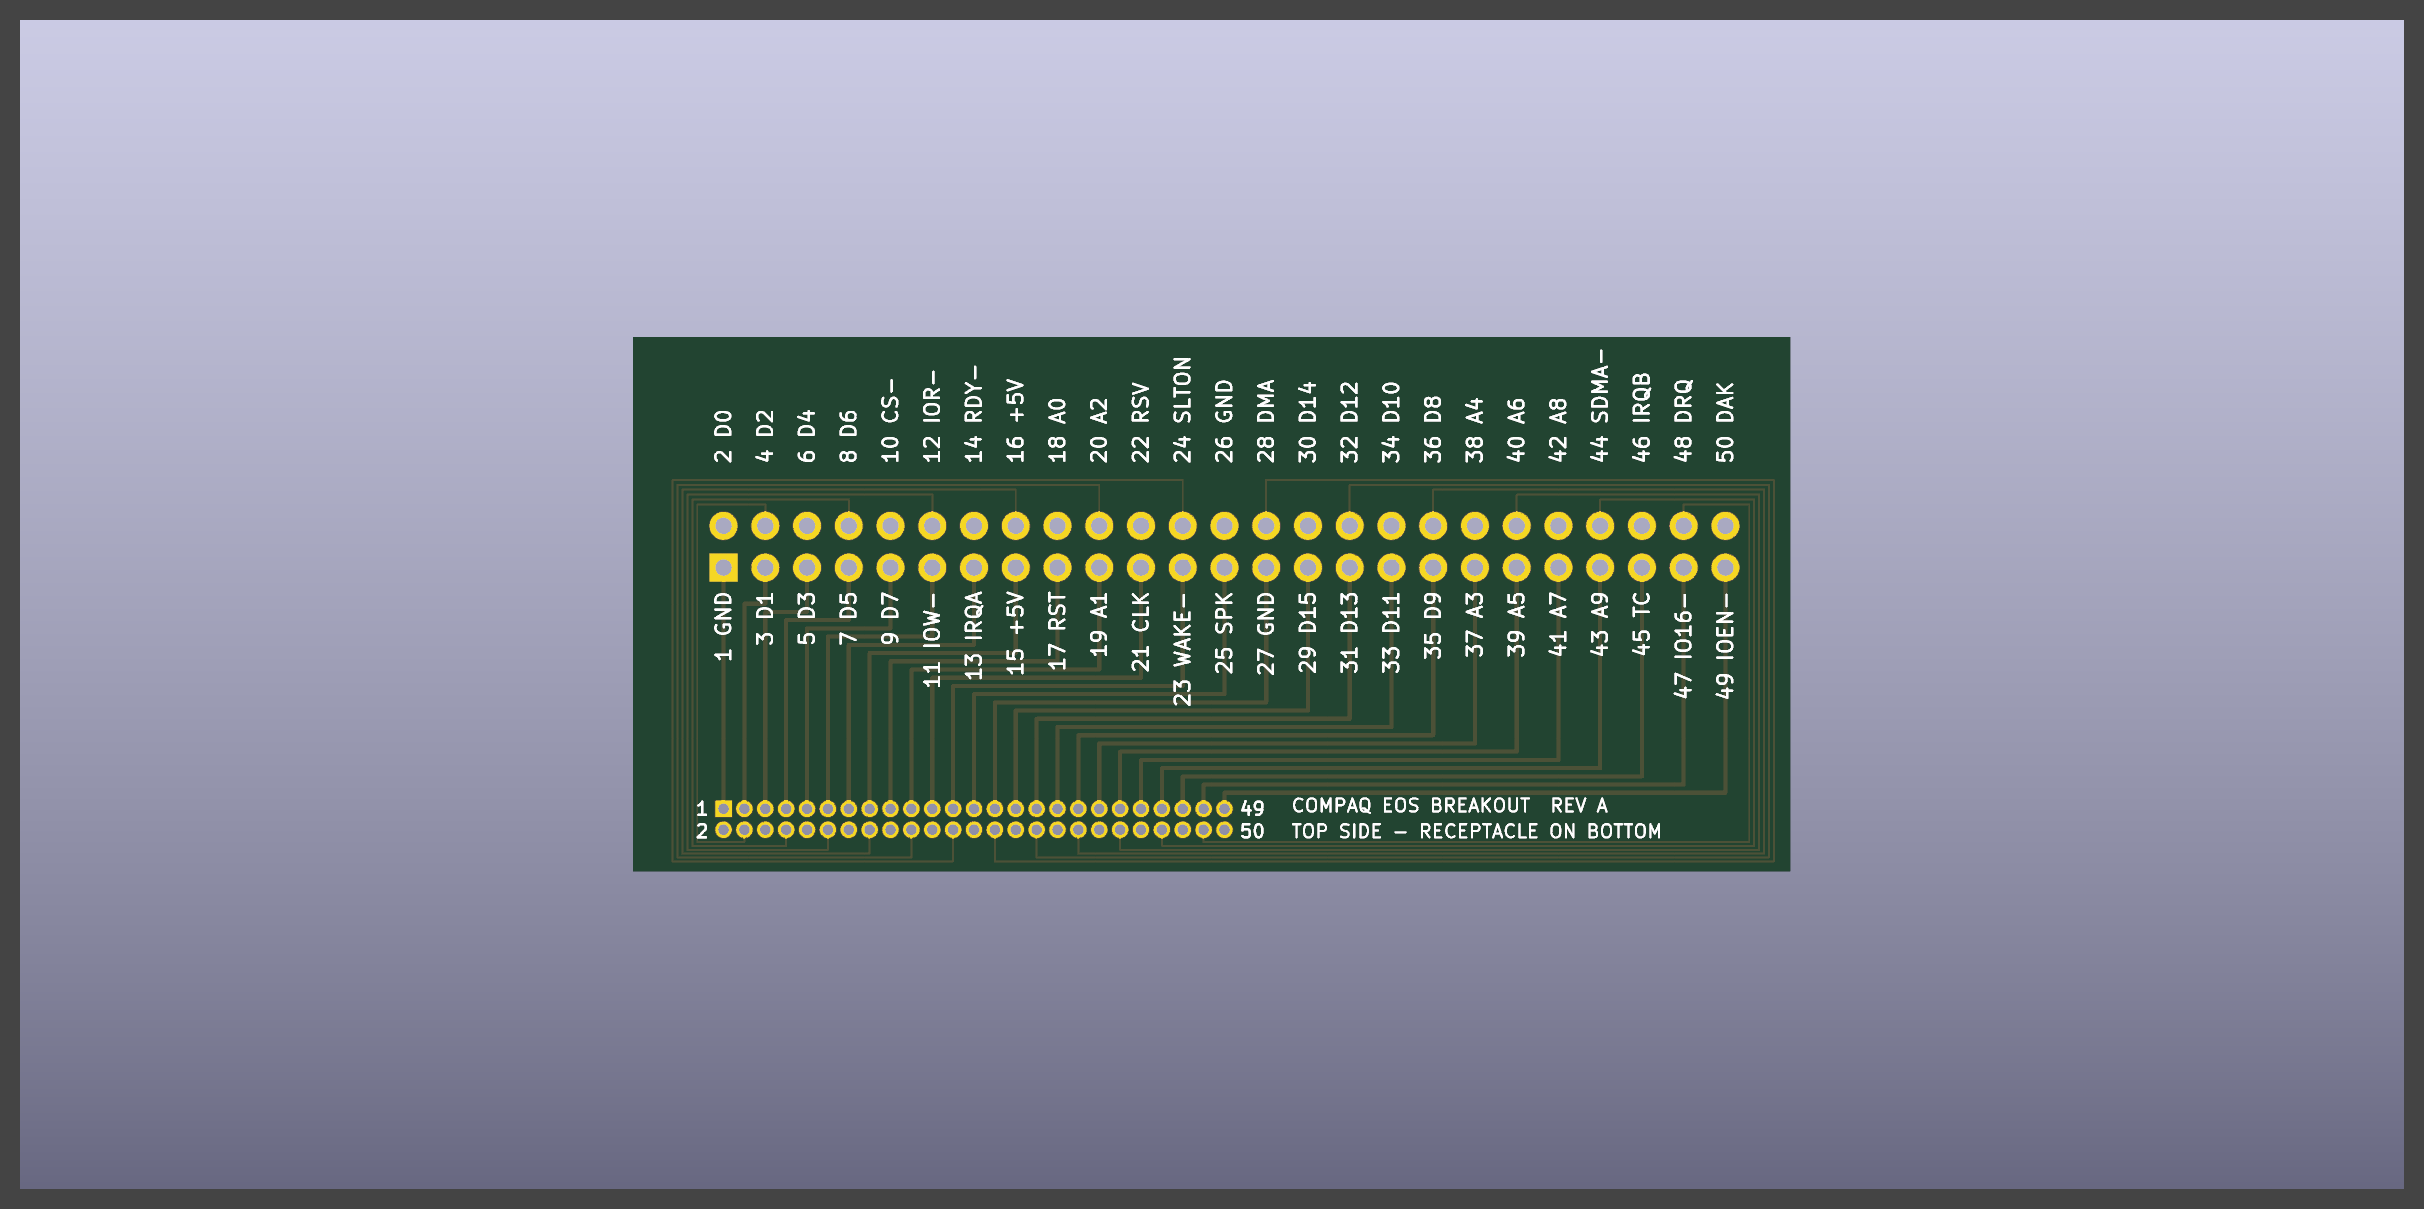
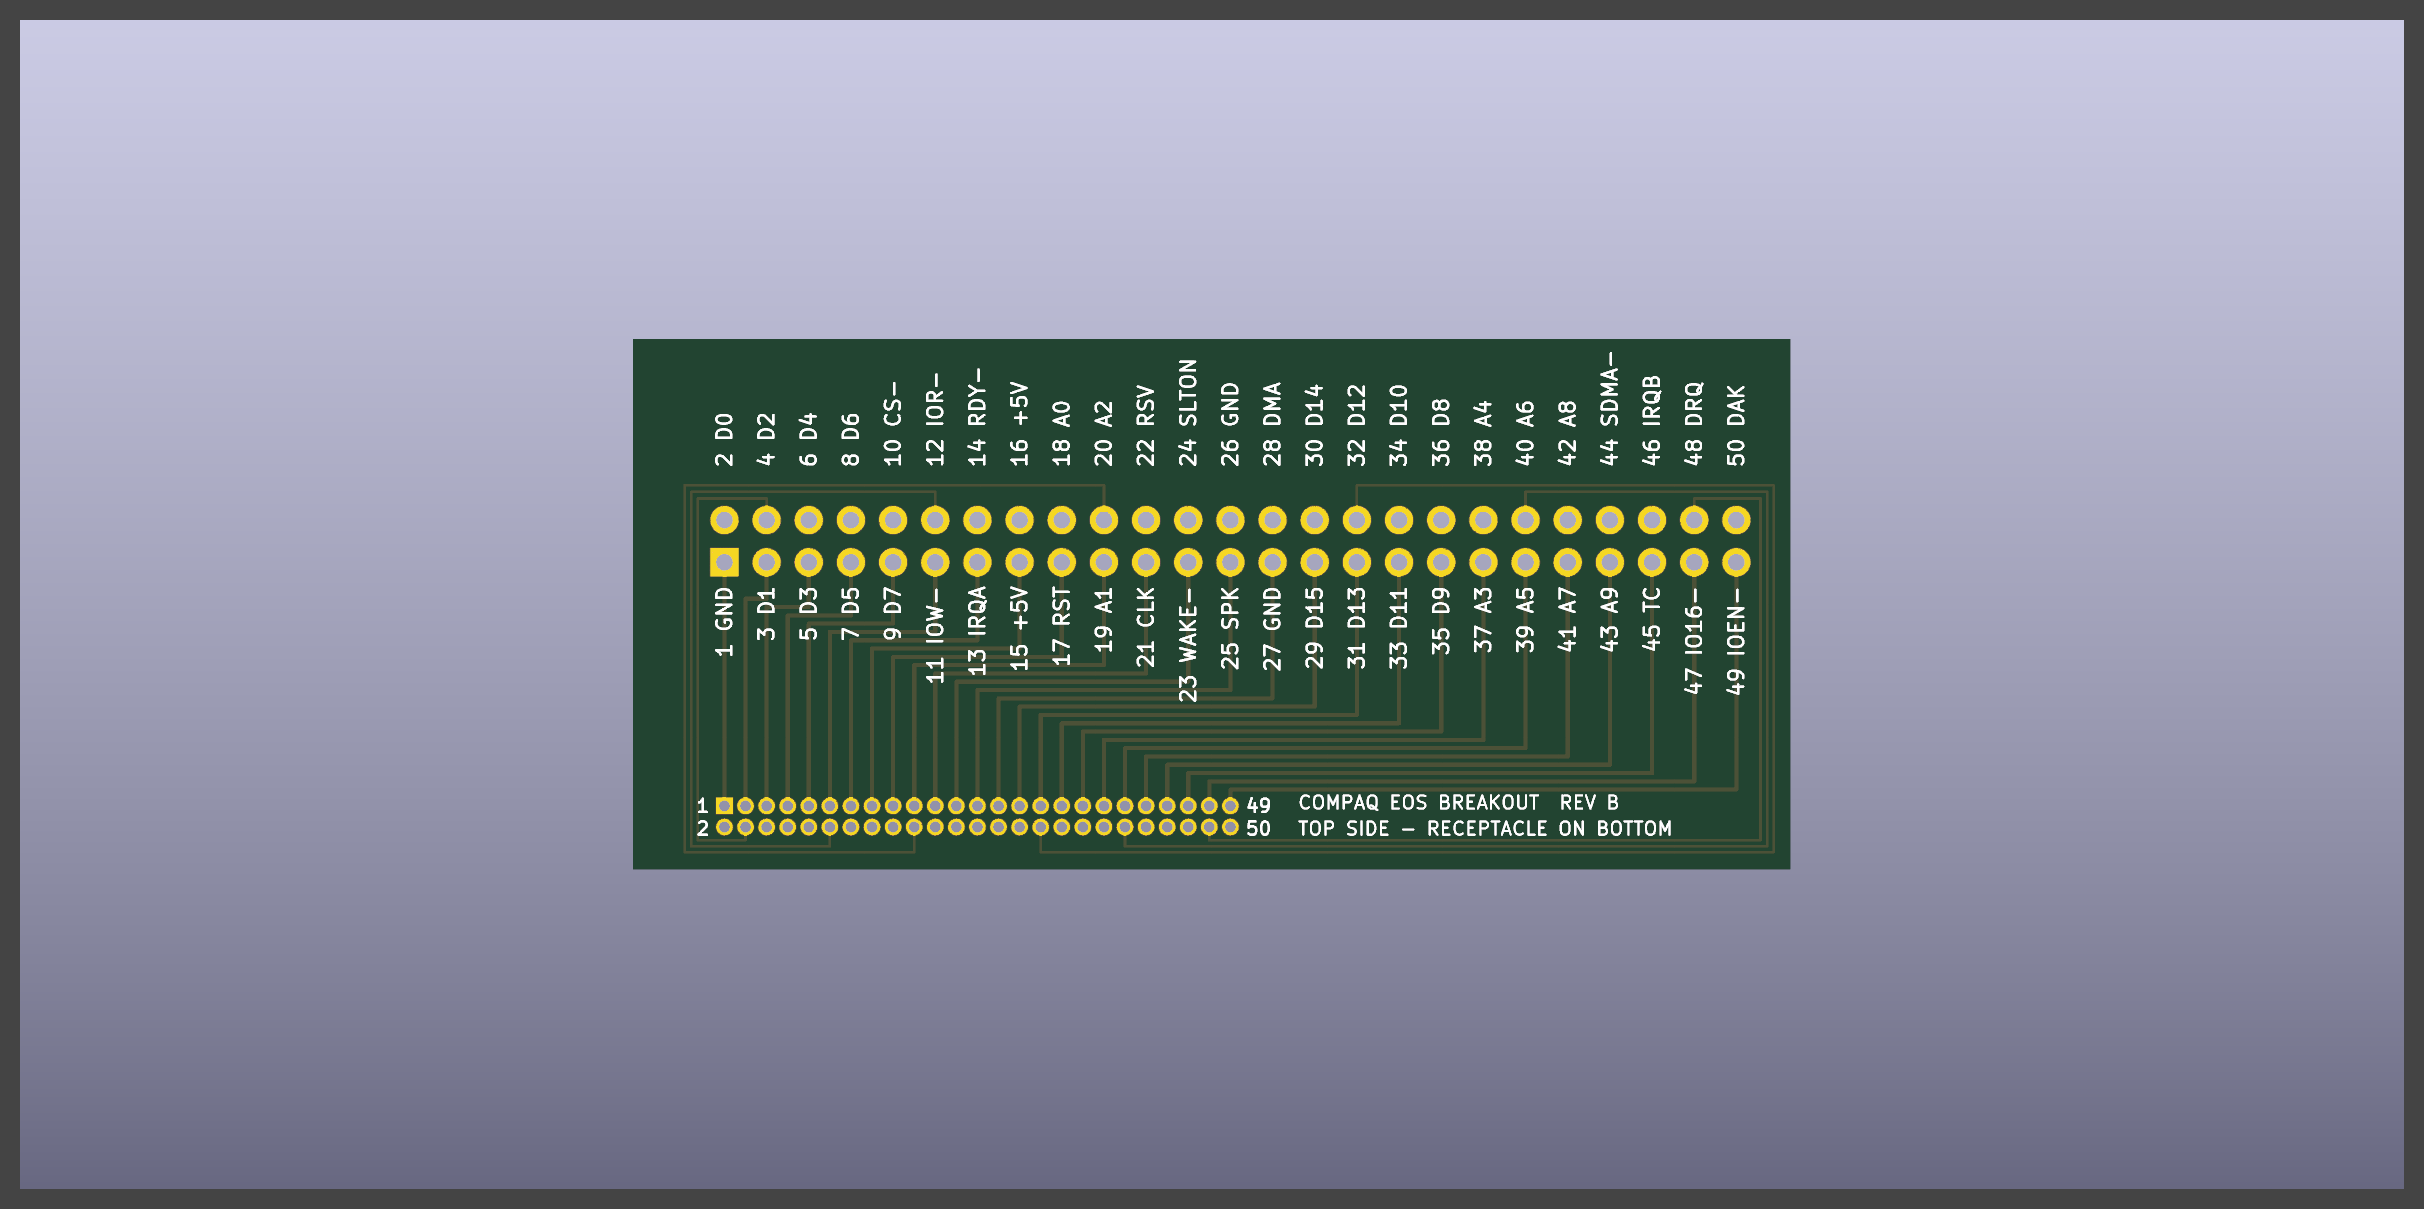
WiFi modem: breakout is a four-layer board, on order from OSH Park

Changed region(s): [[0.2785, 0.2754, 0.7426, 0.7345]]

diff --git a/src/content/projects/compaq-wifimodem/breakout.md b/src/content/projects/compaq-wifimodem/breakout.md
@@ -1,6 +1,6 @@
 ---
 title: "Options Slot Breakout Board"
-description: "A two-layer breakout that carries the original Compaq 50-pin 1.27mm connector and fans it out to a labeled 0.1 inch header"
+description: "A four-layer breakout that carries the original Compaq 50-pin 1.27mm connector and fans it out to a labeled 0.1 inch header"
 date: 2026-11-09
 ---
 
@@ -10,11 +10,11 @@ The slot connector is 1.27mm pitch and keyed. I have exactly one mating connecto
 
 ![The hand-wiring attempt on a 1.27mm proto board](../../../assets/images/compaq-wifimodem/02-prototype-board.jpg)
 
-So it gets its own board. Designed, checked, and ordered from OSH Park. Waiting on it.
+So it gets its own board. Designed, checked, and on order from OSH Park. Waiting on it.
 
 ## What it is
 
-- 70.4 x 32.5mm, two layers, no vias. Three boards on order from OSH Park.
+- 69.7 x 31.9mm, four layers, no vias. Three boards on order.
 - Original Compaq receptacle on the bottom edge. 2x25 through-hole on a 1.27mm square grid, nearest row 2.55mm from the edge, body on the bottom side. Same as it sat on the modem.
 - 2x25 0.1" header along the top. Every pin labeled with its number and signal name. Header pin N is slot pin N.
 - Stands upright on the slot header, like the modem did.
@@ -27,33 +27,38 @@ There are little fan-out adapters that take a 1.27mm socket to 0.1" pins. Right 
 
 This was more interesting than I expected.
 
-Two rows of pads, 1.27mm apart, 1.0mm pads. That leaves 0.27mm between pads. A trace can't legally pass through that. Not at any width a cheap fab will make with a proper annular ring around the hole.
+Two rows of pads, 1.27mm apart, 1.0mm pads. That leaves 0.27mm between pads. A trace can't legally pass through that. Not at any width a fab will make with a proper annular ring around the hole.
 
 The odd row is fine. It faces the rest of the board, so its traces just leave.
 
 The even row is boxed in. Odd row on one side, board edge 2.55mm away on the other. The only ways out are the two ends of the connector.
 
-![Both copper layers. Odd pins in red fan straight out. Even pins take the long way around.](../../../assets/images/compaq-wifimodem/08-breakout-copper.png)
+![All four copper layers overlaid. Odd pins fan straight out on the top layer. Even pins take the long way around.](../../../assets/images/compaq-wifimodem/08-breakout-copper.png)
 
 So the even pins leave downward, into the 2mm strip between the pads and the board edge. Run sideways along that strip past the end of the connector. Up the side of the board. Over the top of the header. Then drop onto the header pins from above.
 
-Half go left, half go right, split across both layers. Seven traces is the most that fit in the strip on one layer. Within each group the pin nearest the exit takes the lane nearest the pads, which keeps everything nested and nothing crosses. No vias anywhere.
+Half go left, half go right. Within each group the pin nearest the exit takes the lane nearest the pads, which keeps everything nested and nothing crosses. No vias anywhere. The connector pins themselves tie the layers together.
 
-The cost is that those even-pin traces are thin. 0.12mm with 0.115mm gaps, because that is what fits. And some are long. Pin 28 goes 106mm to cover about 25mm in a straight line. Fine for ISA-speed signals. Not fine for power, so power and ground come off the odd pins (15, 1, 27), which get 0.25mm traces.
+## Why four layers
+
+The strip is the bottleneck. Twenty-five traces have to squeeze through 2mm of board, and how many fit depends on how fine the fab can etch.
+
+Four layers solves it by brute force. Same strip, four layers of it. At most four traces per layer on each side, so there is room for 0.16mm traces with 0.20mm gaps and more than 15 mil to the board edge. Comfortably inside OSH Park's four-layer rules. Worth it for something that carries the only connector I have.
+
+Some of the even-pin traces are long. Pin 28 goes 103mm to cover about 25mm in a straight line. Fine for ISA-speed signals. Power and ground come off the odd pins (15, 1, 27), which get 0.25mm traces.
 
 ## Checks
 
-- KiCad design rule check: zero violations, zero unconnected nets.
+- KiCad design rule check against OSH Park's four-layer limits: zero violations, zero unconnected nets.
 - Read the board file back and confirmed every slot pin shares a net with the same-numbered header pin. 50 separate nets.
 - Printed the copper at 1:1 and laid it over the modem's empty connector holes. Every hole lines up, pin 1 on pin 1. That is the check against a mirrored board, which is the one mistake that would be fatal with a single connector.
 
 ## Things I am watching
 
-- **Fab limits.** The even-pin traces are 0.12mm with 0.115mm gaps. That is finer than OSH Park lists for two-layer boards (6 mil trace and space), and that is the version I ordered. So every board gets checked with a multimeter before the connector goes on. Continuity from each header pin to its slot pad, and no shorts between the even pins that run side by side. Three boards in the order, three chances.
-- **Fallback is ready.** There is a four-layer version of the same board. Spreading the even-pin escape over four layers makes room for 0.16mm traces with 0.20mm gaps, inside OSH Park's four-layer rules. Same footprint, same header. If the two-layer boards come back with shorts, that one gets ordered.
+- **Inner layers.** Twelve of the even-pin traces run on the two inner layers, where I can't see them. Every board gets a continuity check from each header pin to its slot pad before the connector goes on.
 - **No mounting hole.** The connector is the only thing holding the board. Support it when pushing jumper wires on.
 - **Signal names on the silkscreen are not verified yet.** They come from the LTE Lite guide. The back of the board says to check ground and +5V before trusting them.
-- **Outline.** It is meant to stay inside the space the modem occupied. I estimated the modem's extents from photos. Need to hold the print against the real thing.
+- **Outline.** It is meant to stay inside the space the modem occupied. I estimated the modem's extents from photos. Need to hold the board against the real thing.
 
 ## Why it stays a plain breakout
 
@@ -68,7 +73,6 @@ So this is the permanent connector carrier. The electronics go on a second board
 Everything is in the [source repository](https://github.com/k0bura/compaq-wifimodem) under `hardware/eos-breakout/`.
 
 - `gen_breakout.py`. The board is generated by a script through KiCad's Python API, not drawn by hand. Change a number, rerun, get a new board.
-- `eos-breakout.kicad_pcb`. KiCad 10.
-- `eos-breakout-gerbers.zip`. The two-layer board, as ordered.
-- `eos-breakout-oshpark.kicad_pcb`. The four-layer fallback. Run the script with `oshpark` to regenerate it.
+- `eos-breakout-oshpark.kicad_pcb`. The board, as ordered. KiCad 10.
+- `eos-breakout-oshpark-gerbers.zip`. Gerbers for it, named the way OSH Park expects.
 - `eos-breakout-1to1.pdf`. The paper test. Print at 100%.

diff --git a/src/content/projects/compaq-wifimodem.md b/src/content/projects/compaq-wifimodem.md
@@ -20,7 +20,7 @@ Where things stand:
 - Original Compaq modem torn down and photographed. It is built the same way, which is reassuring.
 - Mating connector desoldered from that modem. It is keyed, so nothing off the shelf fits the slot.
 - Custom breakout board designed around that one connector. Passes design rule check. Paper print checked against the modem's holes and it lines up.
-- Breakout board ordered from OSH Park. Waiting on it.
+- Breakout board ordered from OSH Park, four layers. Waiting on it.
 - No firmware yet. Nothing has driven the bus yet.
 
 Progress in detail:
@@ -28,7 +28,7 @@ Progress in detail:
 - **[Options slot reference](/projects/compaq-wifimodem/options-slot/)**: what every signal does, which direction it goes, and where that information came from
 - **[Pinout and wiring](/projects/compaq-wifimodem/pinout/)**: all 50 pins and how the 16C550 and ESP32 hook up
 - **[Original modem teardown](/projects/compaq-wifimodem/modem-teardown/)**: what Compaq put on their own card and what it says about the slot
-- **[Breakout board](/projects/compaq-wifimodem/breakout/)**: getting 50 signals out of a 1.27mm connector on two layers
+- **[Breakout board](/projects/compaq-wifimodem/breakout/)**: getting 50 signals out of a 1.27mm connector without a single via
 
 ## Two documents, one slot
 
